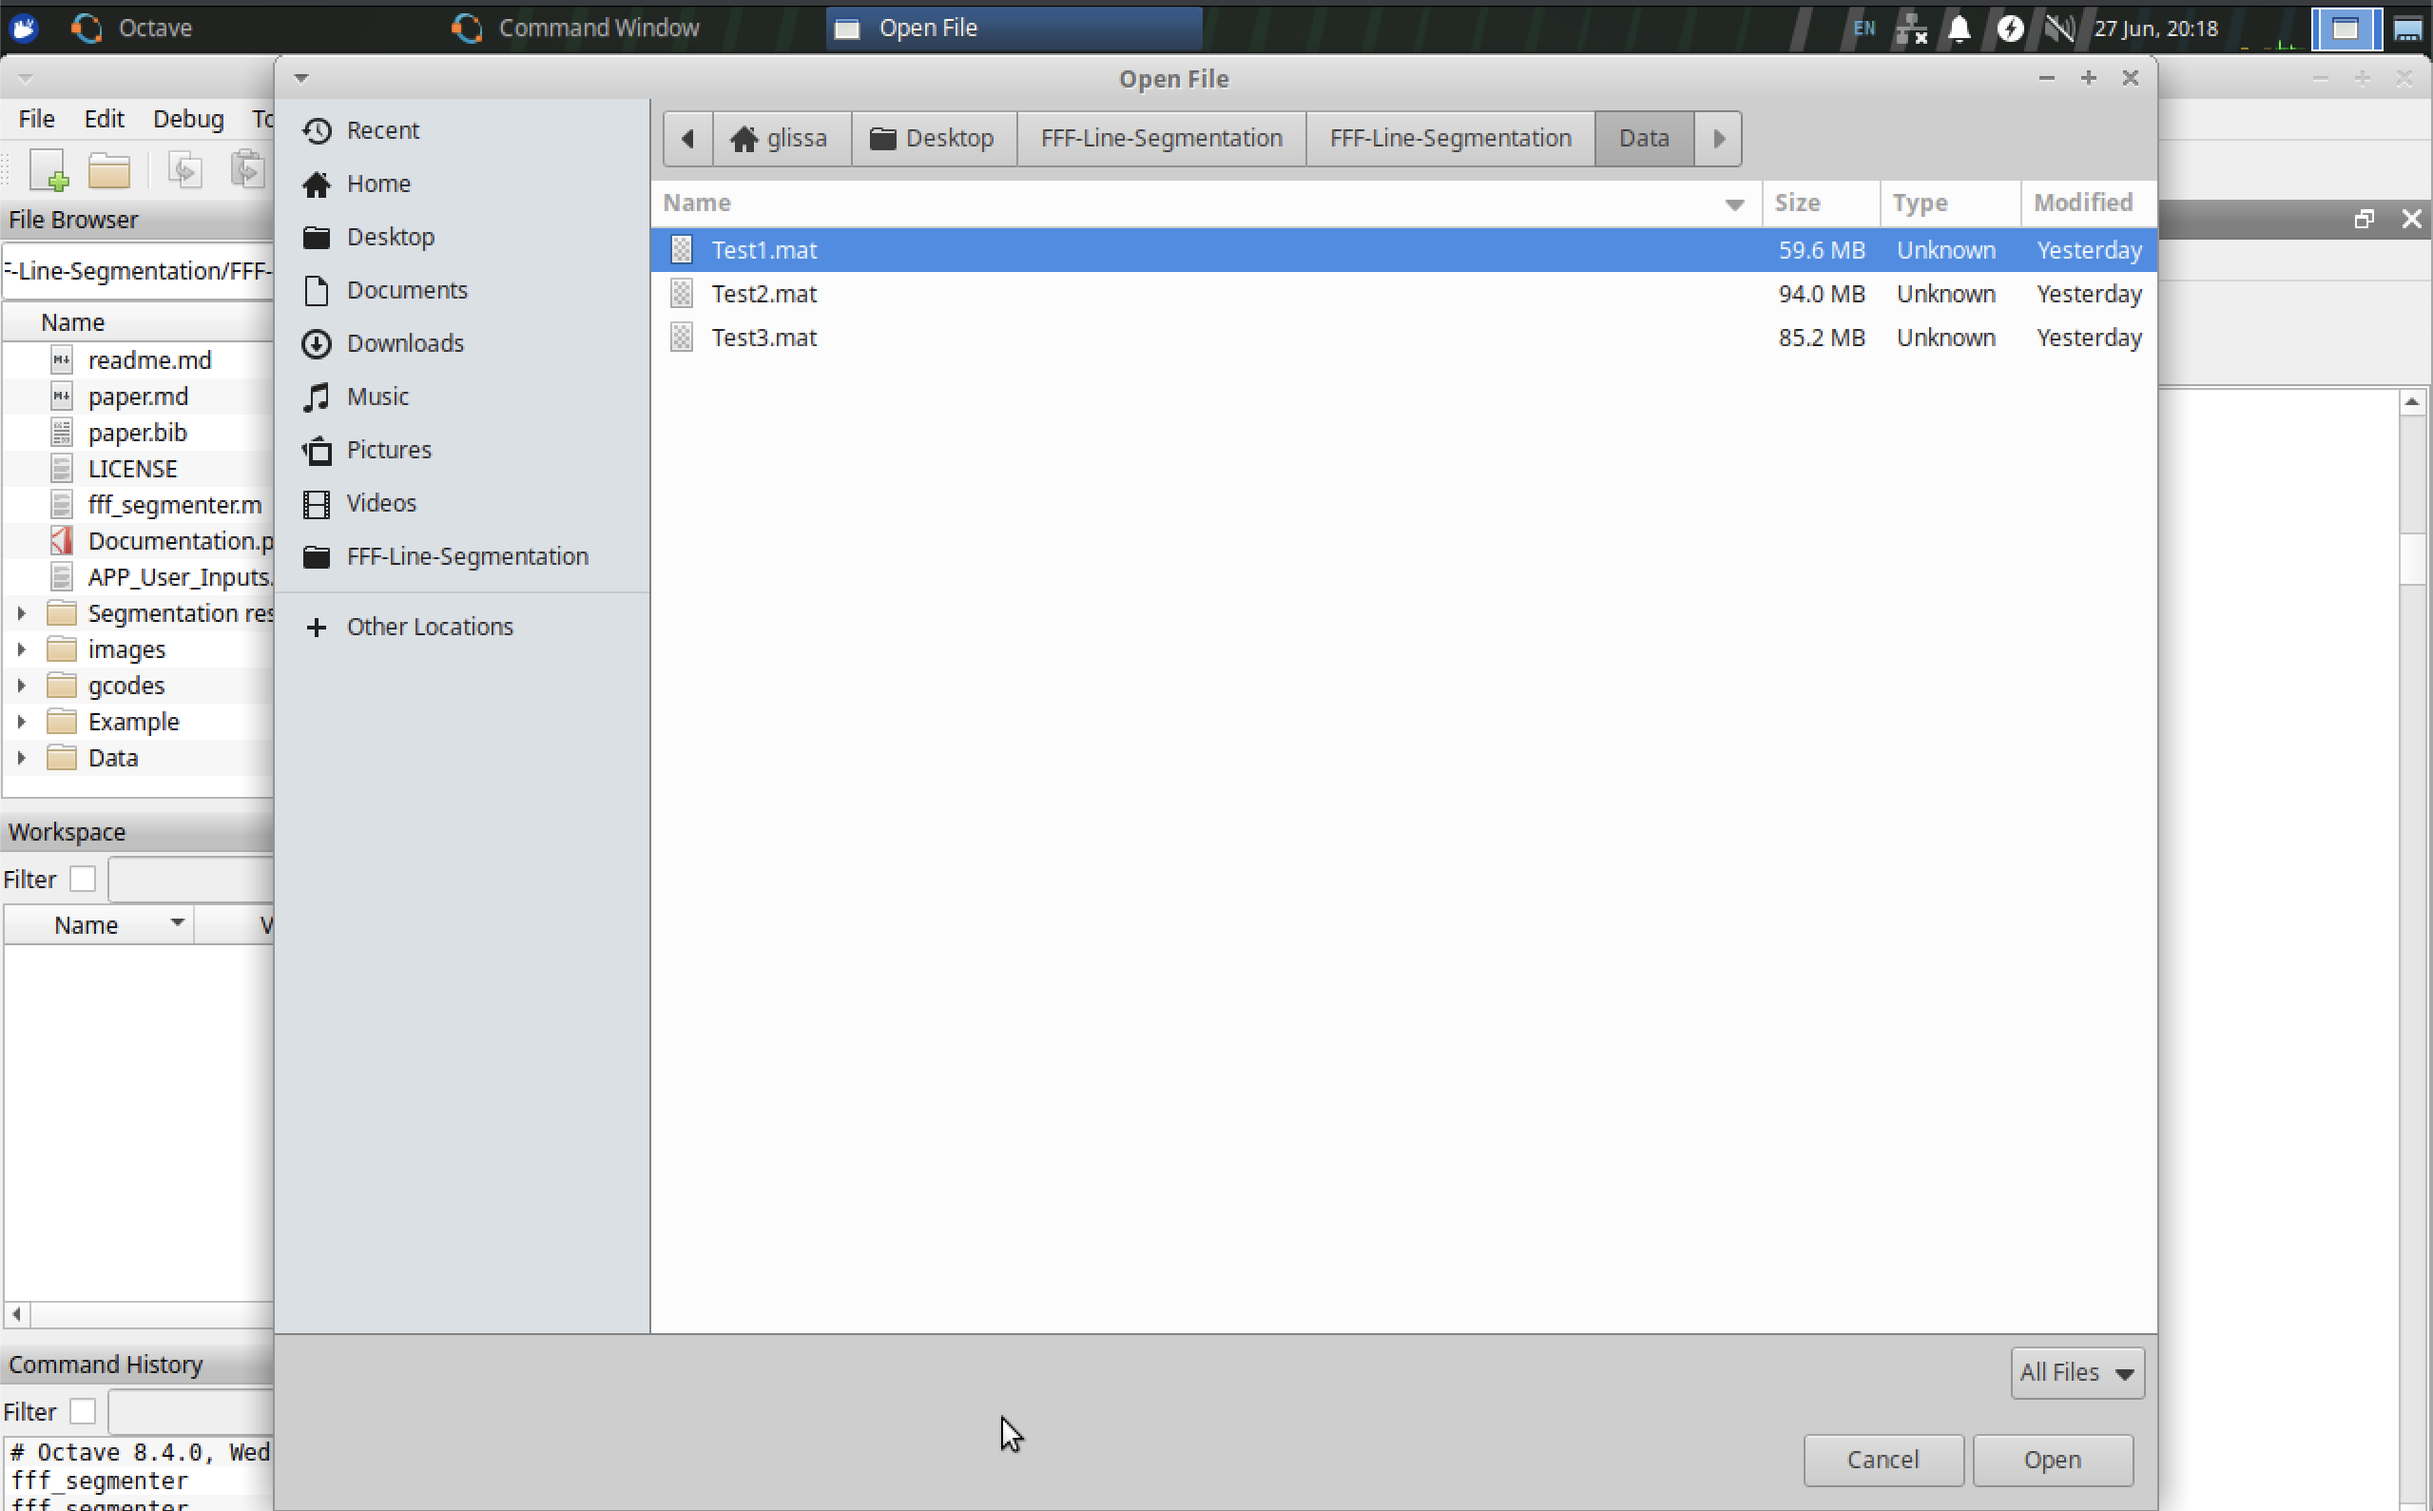
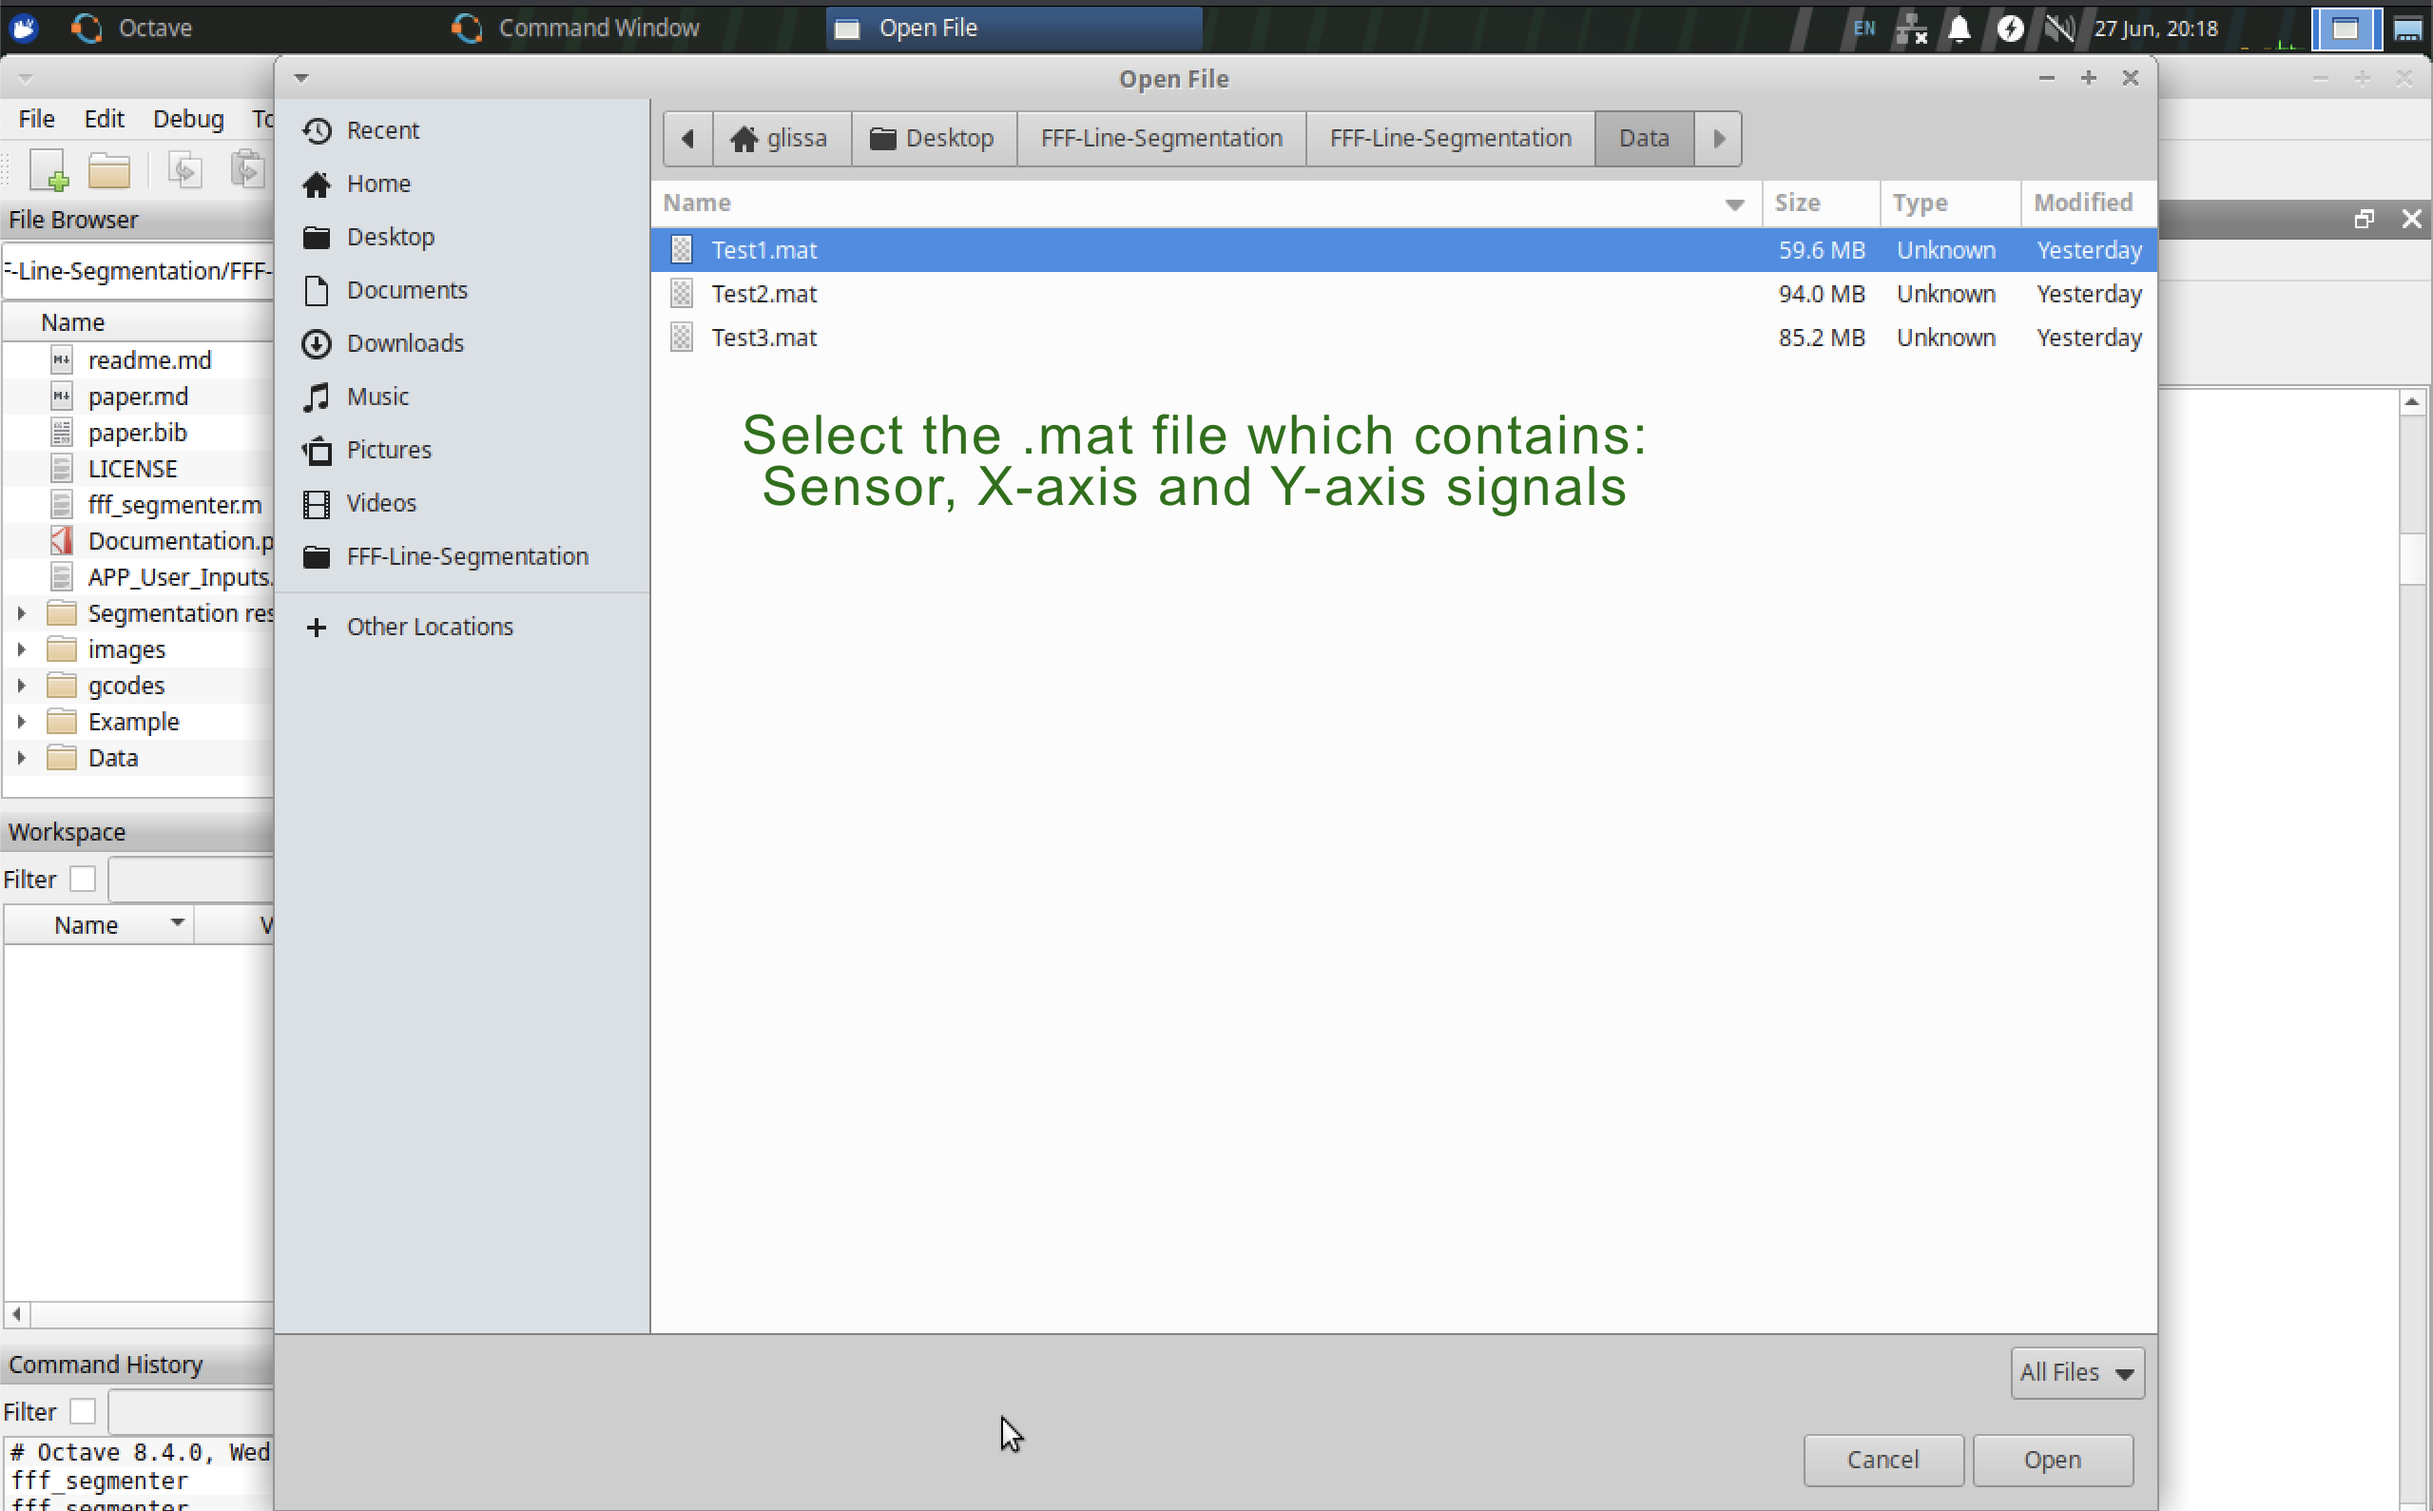
Improve on the documentation about the user input

Changed region(s): [[0.3087, 0.2775, 0.6792, 0.3392]]

diff --git a/readme.md b/readme.md
@@ -40,6 +40,21 @@ fff_segmenter
 ```
 After running the fff_segmenter algorithm, the user will be presented with the graphical interface displayed below.
 
+In the graphical interface:
+- The user must use the `Select data` button to select the .mat file which contains the acoustic signal and the X and Y direction control signals.
+- The user must insert the `Sampling frequency` of the signals in Hertz (Hz).
+- The user must insert the name of the sensor signal that exists in the selected .mat file on the `Raw signal identification` field.
+- The user must insert the name of the direction X axis signal that exists in the selected .mat file on the `DirX identification` field.
+- The user must insert the name of the direction Y axis signal that exists in the selected .mat file on the `DirY identification` field.
+- The user must select the `Segmentation mode` between `Points` and `Segments`. If the choice is not made, the default `Points` mode will be utilized.
+- The user must select the `Unit` segmentation between `Number of samples` and `Seconds`. If the choice is not made, the default `Number of samples` mode will be utilized.
+- The user may select additional `Outputs` that can be generated by the algorithm. The available outputs are `Obtain graphical visualization`, `Save graphical visualization if obtained`, and `Obtain automatic .mat files`. If none additional `Outputs` are selected, the `fff_segmenter` function output will only be the segmentation results to the current Matlab workspace.
+
+About the additional outputs:
+- The `Obtain graphical visualization` option will generate a figure with the segmentation results displayed on top of the `Sensor signal`.
+- The `Save graphical visualization if obtained` option will save the generated figure in the `Segmentation results` folder.
+- The `Obtain automatic .mat files` option will save the segmentation results in the `Segmentation results` folder in .mat format. The output data file name follows a definition that is based on the `Segmentation mode` choice, and the identification of the sensor signal in the dataset.
+
 <img src="Example/Matlab%20Input%20GUI.png" alt="Figure 1 - Input interface" width="420">
 
 For the purpose of this example, the `Select data` button will be used to load the `Test1.mat` file from the `Data` folder. The `Select data` button will open a file explorer window, where the user can navigate to the `Data` folder and select the `Test1.mat` file. The rest of the input fields will be filled with the values in regard to the `Test1.mat` dataset, with default values for the `Segmentation mode` and `Unit` segmentation options, and with all of the available outputs toggled to `Yes`.
@@ -74,13 +89,31 @@ Run the `fff_segmenter` script by typing directly into the command window follow
 ```Octave
 fff_segmenter
 ```
-After running the fff_segmenter algorithm, a file explorer window will appear. For the purpose of this example, the user can navigate to the `Data` folder and select the `Test1.mat` file.
+After running the fff_segmenter algorithm, a file explorer window will appear. 
+
+- The user must select the .mat file which contains the acoustic signal and the X and Y direction control signals.
+
+For the purpose of this example, the user can navigate to the `Data` folder and select the `Test1.mat` file.
 
 
 <img src="Example/Octave%20file%20navigation.png" alt="Figure 6 - Octave file selection" width="420">
 
 After selecting the data file, the user will be presented with the graphical interface displayed below. The filled values in the input fields are the default values for the `Segmentation mode` and `Unit` segmentation options, and with all of the available fields set to `N`.
 
+In the graphical interface:
+
+- The user must insert the name of the sensor signal that exists in the selected .mat file on the `Sensor signal identification` field.
+- The user must insert the name of the direction X axis signal that exists in the selected .mat file on the `X-axis signal identification` field.
+- The user must insert the name of the direction Y axis signal that exists in the selected .mat file on the `Y-axis signal identification` field.
+- The user must insert the `Sampling frequency` of the signals in Hertz (Hz).
+- The user must select the `Segmentation mode` between `Points` and `Segments`. If the choice is not made, the default `Points` mode will be utilized.
+- The user must select the `Unit` segmentation between `Number of samples` and `Seconds`. If the choice is not made, the default `Number of samples` mode will be utilized.
+- The user may select additional `Outputs` that can be generated by the algorithm. The available outputs are `Obtain graphical visualization`, `Save graphical visualization if obtained`, and `Obtain automatic .mat files`. If none additional `Outputs` are selected, the `fff_segmenter` function output will only be the segmentation results to the current Octave workspace. 
+
+About the additional outputs:
+- The `Obtain graphical visualization` option will generate a figure with the segmentation results displayed on top of the `Sensor signal`.
+- The `Save graphical visualization if obtained` option will save the generated figure in the `Segmentation results` folder.
+- The `Obtain automatic .mat files` option will save the segmentation results in the `Segmentation results` folder in .mat format. The output data file name follows a definition that is based on the `Segmentation mode` choice, and the identification of the sensor signal in the dataset.
 
 <img src="Example/Octave%20input%20GUI.png" alt="Figure 7 - Octave Input GUI" width="420">
 
